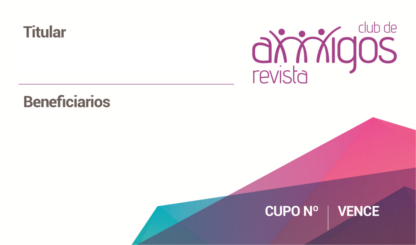
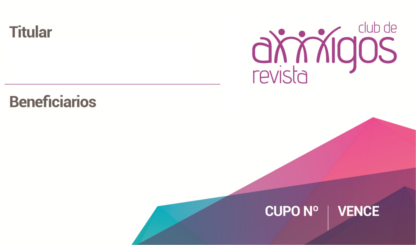
correccion carnet in situ

Changed region(s): [[0.0, 0.3714, 0.2812, 0.4571], [0.0312, 0.0857, 0.1562, 0.1714], [0.5312, 0.3143, 0.5625, 0.3714]]

diff --git a/resources/views/license/carnet.blade.php b/resources/views/license/carnet.blade.php
@@ -55,24 +55,24 @@
 		}
 
 		.mini_contenedor{
-			width: 390px;
+			width: 418px;
 		    height: 245px;
 		    /*height: 80%;*/
 		    background-image: url("carnet_front.jpg");
 		    background-repeat: no-repeat;
 		    background-size: 100% 100%;
-	        margin-left: 18px;
+	        margin-left: 8px;
 		}
 
 		.mini_contenedor_back{
-			width: 390px;
+			width: 416px;
 		    height: 245px;
 		    /*height: 80%;*/
 		    background-image: url("carnet_back.jpg");
 		    background-repeat: no-repeat;
 		    background-size: 100% 100%;	
 		    margin-top: 24px;
-		    margin-left: 18px;
+		    margin-left: 22px;
 		}
 
 		.mini_contenedor_relleno{
@@ -82,34 +82,35 @@
 
 		.name_titular{
 			margin-top: 42px;
-    		padding-left:22px;
+    		padding-left:8px;
     		font-size: 14px;
 		}
 
 		.id_titular{
-			padding-left: 22px;
+			padding-left: 8px;
+			font-size: 14px;
 		}
 
 		.name_titular_big{
 			margin-top: 42px;
-    		padding-left:2px;
+    		padding-left:8px;
     		font-size: 14px;
 		}
 
 		.id_titular_big{
-			padding-left: 2px;
+			padding-left: 18px;
 			font-size: 14px;
 		}
 
 
 		.name_titular_big_2{
 			margin-top: 42px;
-    		padding-left:2px;
+    		padding-left:8px;
     		font-size: 12px;
 		}
 
 		.id_titular_big_2{
-			padding-left: 2px;
+			padding-left: 8px;
 			font-size: 14px;
 		}
 
@@ -117,7 +118,7 @@
 
 		.cnt_bnt{
 			margin-top: 45px;
-			padding-left: 22px;
+			padding-left: 8px;
 		    height: 100px;	
 		}
 
@@ -185,19 +186,19 @@
 								<div class="name_titular">
 									<b>{{ $suscription['names_fr'].' '.$suscription['surnames_fr'] }}</b>
 								</div>
-								<div class="id_titular">{{ $suscription['identificacion_fr'] }}</div>
+								<div class="id_titular">C.C {{ $suscription['identificacion_fr'] }}</div>
 							@else
 
 								@if( strlen($suscription['names_fr'].' '.$suscription['surnames_fr']) < 32 )
 									<div class="name_titular_big">
 									<b>{{ ucwords(strtolower($suscription['names_fr'].' '.$suscription['surnames_fr'] ))}}</b>
 									</div>
-									<div class="id_titular_big">{{ $suscription['identificacion_fr'] }}</div>
+									<div class="id_titular_big">C.C {{  $suscription['identificacion_fr'] }}</div>
 								@else
 									<div class="name_titular_big_2">
 									<b>{{ ucwords(strtolower($suscription['names_fr'].' '.$suscription['surnames_fr'] ))}}</b>
 									</div>
-									<div class="id_titular_big_2">{{ $suscription['identificacion_fr'] }}</div>
+									<div class="id_titular_big_2">C.C {{ $suscription['identificacion_fr'] }}</div>
 								@endif
 								
 							@endif

diff --git a/resources/views/club/suscripcion/listar.blade.php b/resources/views/club/suscripcion/listar.blade.php
@@ -140,19 +140,14 @@
 		            			</div>
 
 		            		@elseif($opc['accion'] == 'imprimir_carnet')
-<<<<<<< HEAD
-		            			<div class="col-md-1 bnt_imprimir_carnet" data-toggle="tooltip" title = "{{$opc[$key]}}">
-=======
+
 	            				<div class="col-md-1 bnt_imprimir_carnet" data-toggle="tooltip" title = "{{$opc[$key]}}">
->>>>>>> 8de7b3d00653f8d5769fbc4fd0c2608e30fd8752
+
 		            				<a href="#" class="site_title site_title2" style = "text-decoration: none; ">
 			            				<i class="{{$opc['icono']}}"></i>
 			            			</a>
 		            			</div>
-<<<<<<< HEAD
 
-=======
->>>>>>> 8de7b3d00653f8d5769fbc4fd0c2608e30fd8752
 		            		@elseif($opc['accion'] == 'cargasus')
 	            				<div class="col-md-1" data-toggle="tooltip" title = "{{$opc[$key]}}">
 		            				<a href="javascript:clu_suscripcion.opt_cargarsus()" class="site_title site_title2" style = "text-decoration: none; ">
@@ -781,11 +776,9 @@
 	  		}  	  		
   		});
 
-<<<<<<< HEAD
-	    $('.bnt_carnet,.bnt_imprimir_carnet').click(function(e){
-=======
+
 	    $('.bnt_carnet, .bnt_imprimir_carnet').click(function(e){
->>>>>>> 8de7b3d00653f8d5769fbc4fd0c2608e30fd8752
+
   	  		//e.preventDefault();//evita que la pagina se refresque
 	  	  	if(clu_suscripcion.table.rows('.selected').data().length){
 	  	  			  	  		
@@ -809,13 +802,8 @@
 		  	  	
 		  	  	
 	  		}else{
-<<<<<<< HEAD
-	  			$('.alerts').html(
-	  				'<div class="alert alert-info alert-dismissible"><a href="#" class="close" data-dismiss="alert" aria-label="close">&times;</a><strong>¡Seleccione un registro!</strong> Esta opción requiere la selección de un registro!!!.<br><br><ul><li>Selecciona un registro dando click sobre él, luego prueba nuevamente la opción</li></ul></div>'
-	  				);
-=======
+
 	  			$('.alerts').html('<div class="alert alert-info alert-dismissible"><a href="#" class="close" data-dismiss="alert" aria-label="close">&times;</a><strong>¡Seleccione un registro!</strong> Esta opción requiere la selección de un registro o varios registros!!!.<br><br><ul><li>Selecciona un registro dando click sobre él, luego prueba nuevamente la opción.</li></ul></div>');
->>>>>>> 8de7b3d00653f8d5769fbc4fd0c2608e30fd8752
 	  			
 	  		}  	  		
   		});
